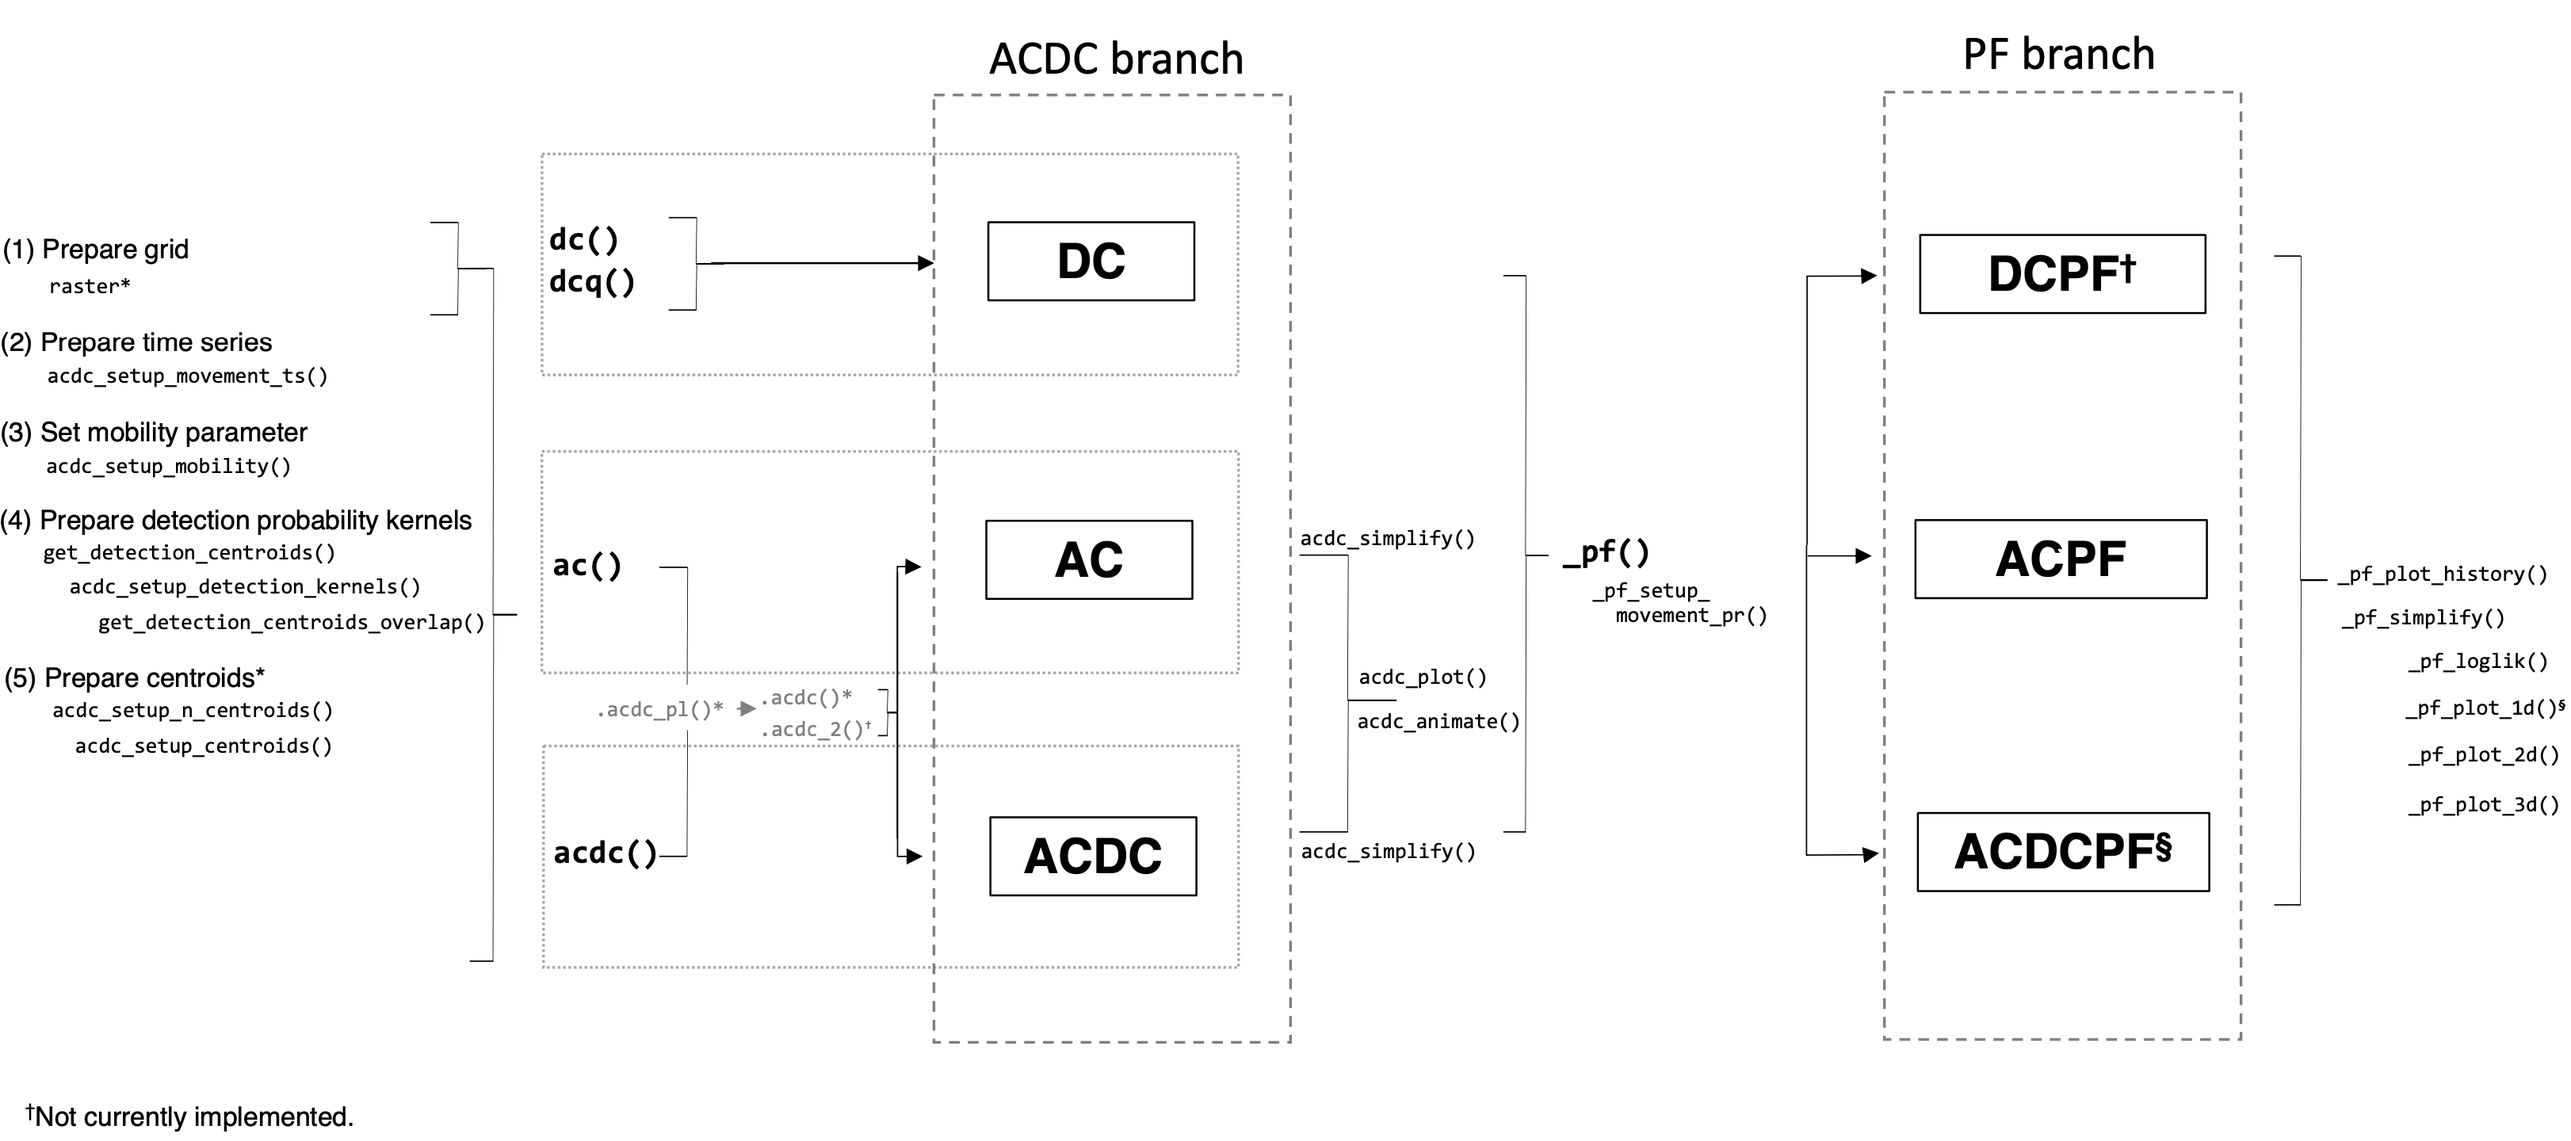
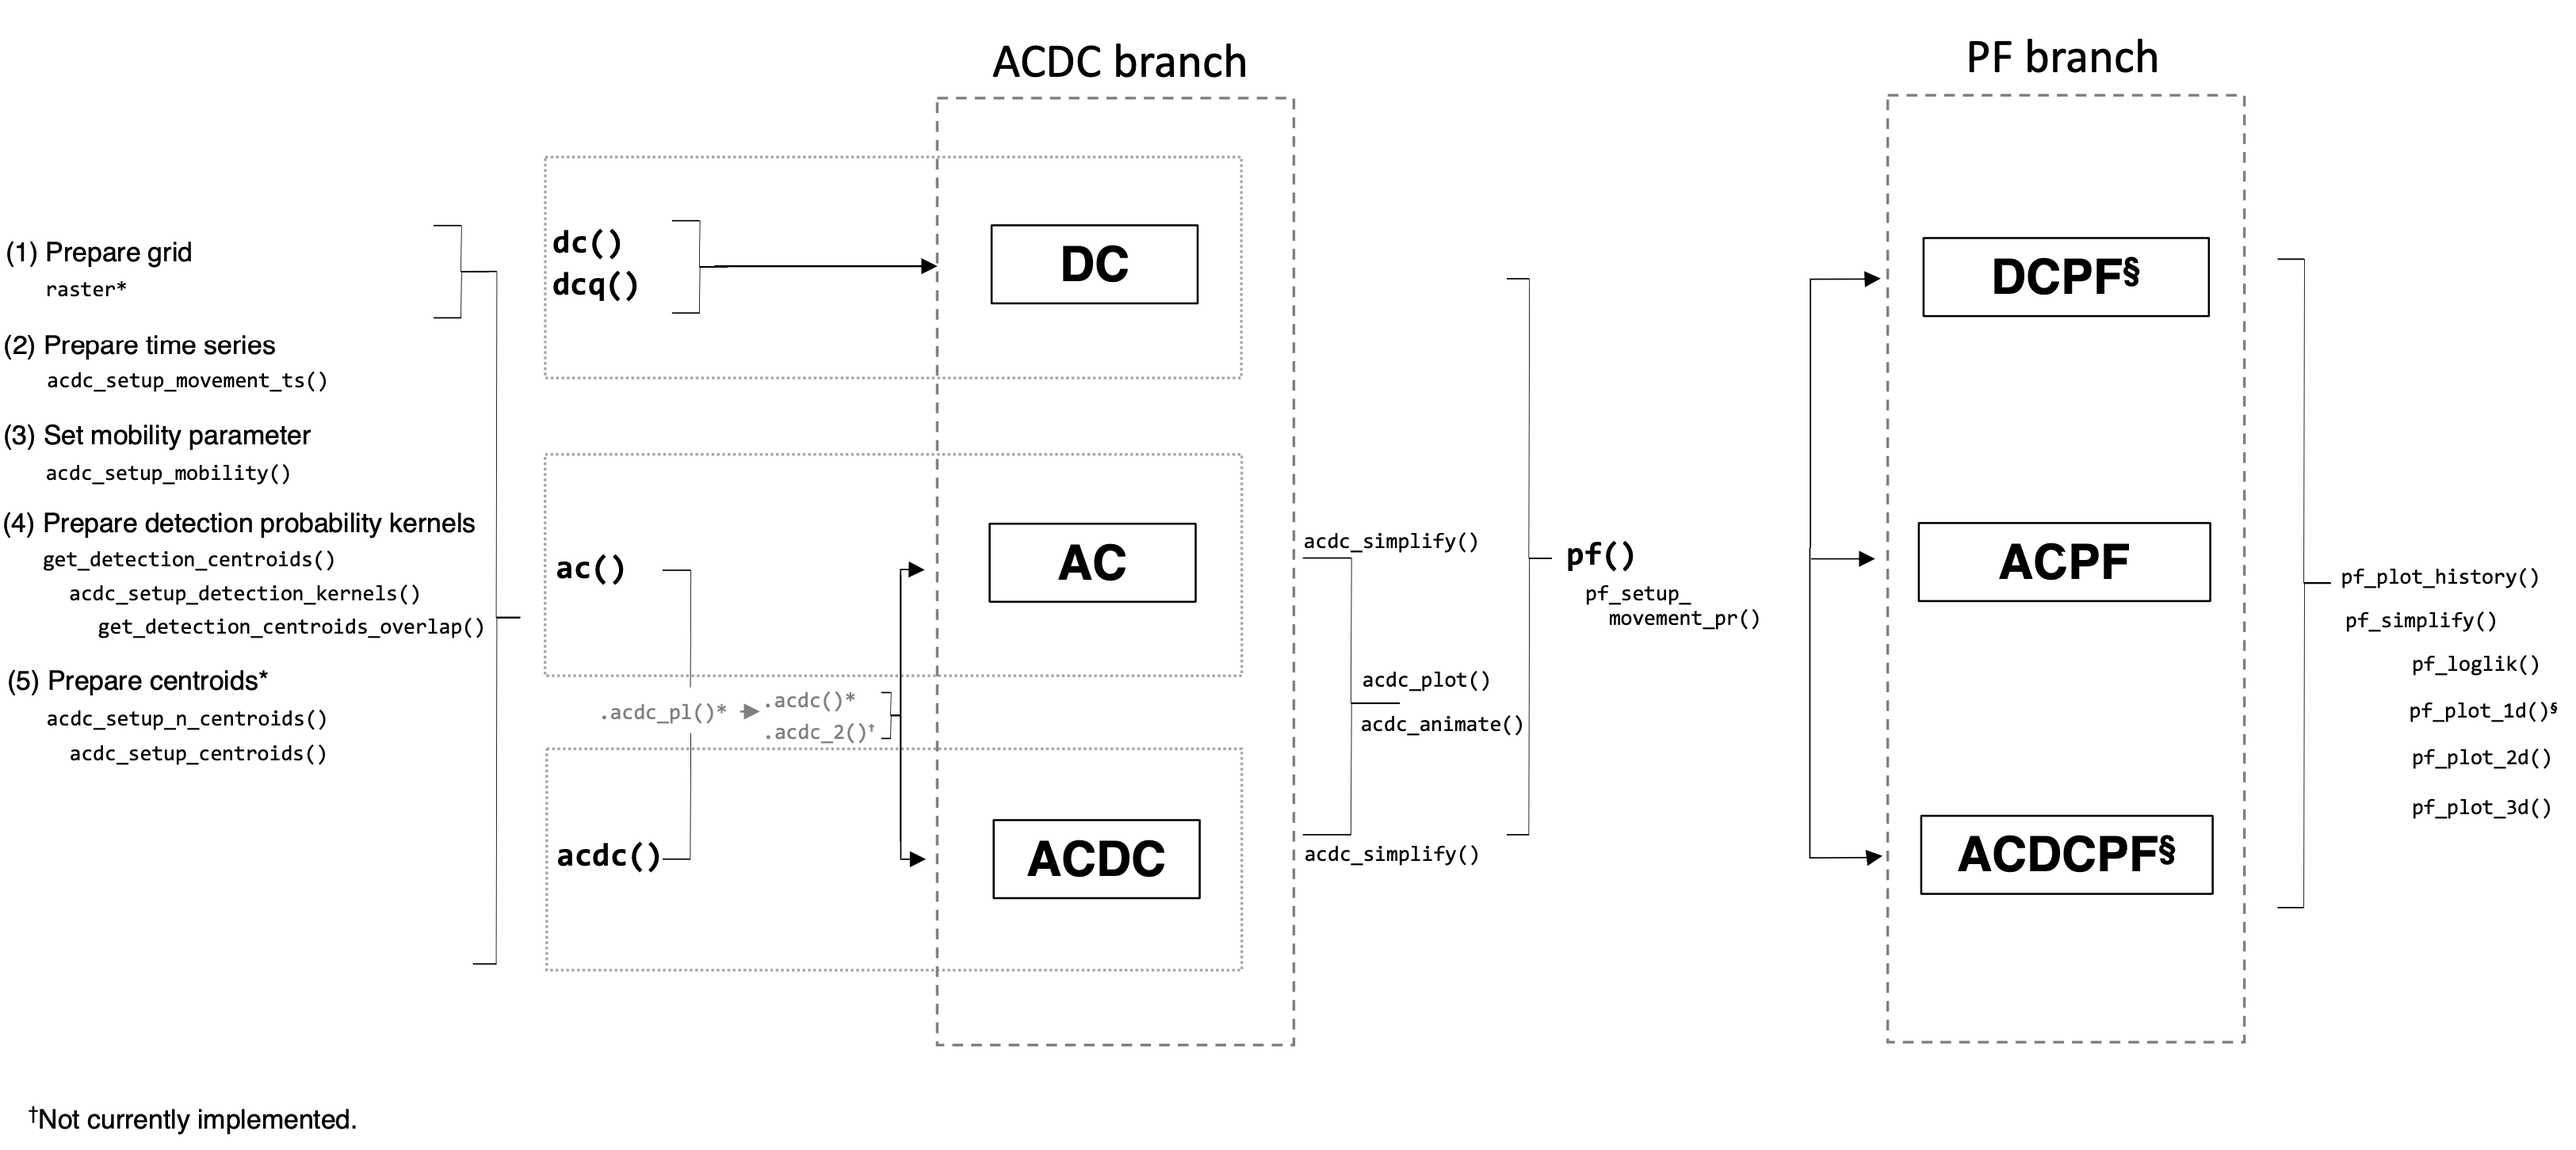
Update flapper family routines workflow in readme.

diff --git a/README.md b/README.md
@@ -96,11 +96,11 @@ discrete detections at receivers, especially:
     detections and concurrent depth observations to infer where
     benthic/demersal animals could have spent more or less time over the
     period of observations.
-  - **`_pf()`** is a particle filtering routine that refines
+  - **`pf()`** is a particle filtering routine that refines
     time-specific maps of the possible locations of an animal (from
     `ac()`, `dc()` or `acdc()`) via a particle simulation and filtering
     process that permits the reconstruction of movement paths over
-    landscape. This will be added to the package in the near future.
+    landscape.
   - **`sim_*()`.** These functions provide flexible, joined-up routines
     for the simulation of receiver arrays, movement paths and detections
     and can be used to evaluate alternative algorithms for inferences
@@ -172,8 +172,8 @@ data collected from flapper skate off the west coast of Scotland:
     series;
   - `dat_archival` is a dataset containing some sample depth time
     series;
-  - `dat_sentinel` is a dataset containing some sample transmission –
-    detection time series assembled from sentinel tags;
+  - `dat_sentinel` is a dataset containing some sample
+    transmission–detection time series assembled from sentinel tags;
 
 These example datasets were collected by Marine Scotland Science and
 NatureScot as part of the Movement Ecology of Flapper Skate project and
@@ -373,7 +373,7 @@ algorithms are implemented with the `acdc*()` family of functions:
   - `acdc_setup_detection_kernels()` defines detection probability
     kernels for the algorithm(s);
   - `ac()` and `acdc()` implement the algorithm(s), via the back-end
-    functions `.acdc_pl` and `.acdc()`;
+    functions `.acdc_pl()` and `.acdc()`;
   - `acdc_simplify()` simplifies the results of the algorithm(s);
   - `acdc_plot()` plots the results of the algorithm(s);
   - `acdc_animate()` creates html animations of the algorithm(s);
@@ -385,23 +385,20 @@ of a movement model to reconstruct movement paths over a surface that
 are consistent with the observations (and model assumptions). The
 resultant algorithms are termed the ACPF, DCPF and ACDCPF algorithms.
 The approach is implemented via a particle simulation and filtering
-process provided by the `_pf*()` family of functions:
+process provided by the `pf*()` family of functions:
 
-  - `_pf_setup_movement_pr` provides a simple movement model that
-    defines the probability of movement between locations given the
-    distance between them;
-  - `_pf()` implements the DCPF algorithm;
-  - `_pf_plot_history()` plot simulated particle histories;
-  - `_pf_simplify()` assembles movement paths from particle histories;
-  - `_pf_loglik()` calculates the log-likelihood of reconstructed paths,
+  - `pf_setup_movement_pr` provides a simple movement model that defines
+    the probability of movement between locations given the distance
+    between them;
+  - `pf()` implements the particle filtering routine;
+  - `pf_plot_history()` plot simulated particle histories;
+  - `pf_simplify()` assembles movement paths from particle histories;
+  - `pf_loglik()` calculates the log-likelihood of reconstructed paths,
     given the movement model;
-  - `_pf_plot_1d()` plots the depth time series from observed and
+  - `pf_plot_1d()` plots the depth time series from observed and
     reconstructed paths;
-  - `_pf_plot_2d()` maps the reconstructed paths in two-dimensions;
-  - `_pf_plot_3d()` maps the reconstructed paths in three-dimensions;
-
-*These algorithms are not currently available in the public version of
-this package.*
+  - `pf_plot_2d()` maps the reconstructed paths in two-dimensions;
+  - `pf_plot_3d()` maps the reconstructed paths in three-dimensions;
 
 ## Simulation tools
 
